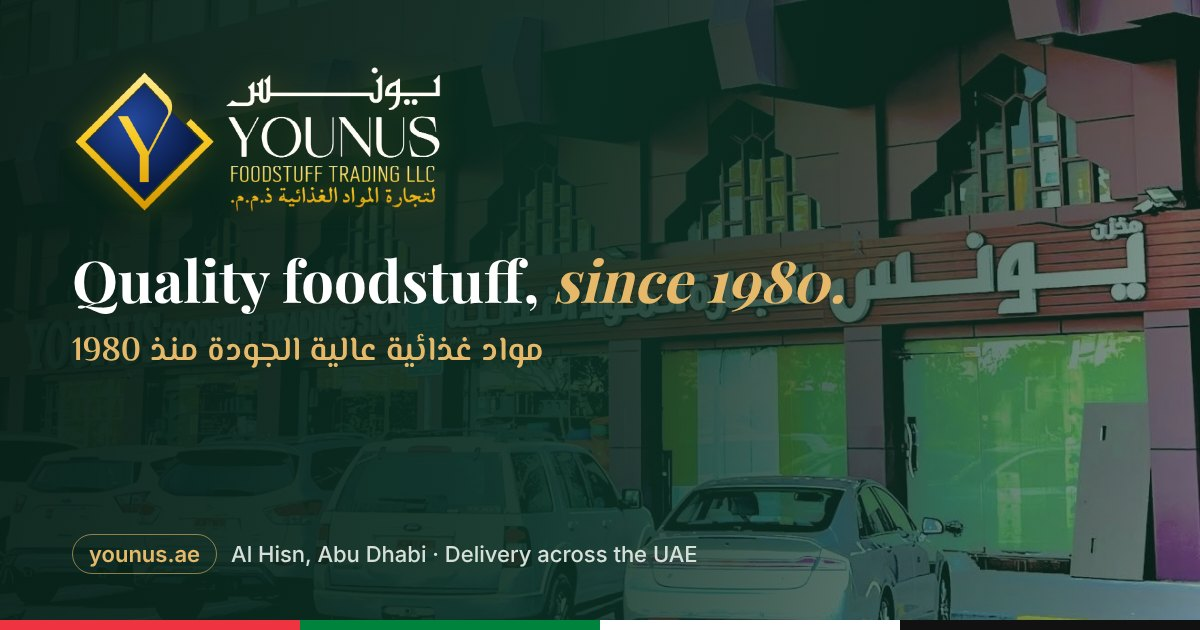
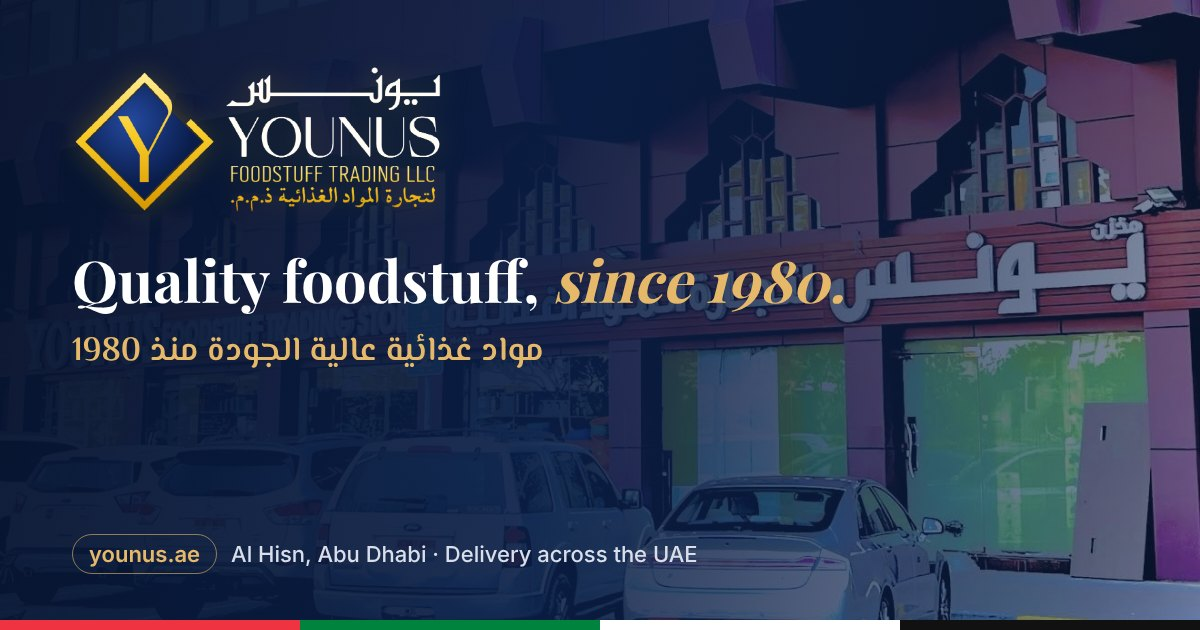
Switch the site theme from green to navy blue
Map every theme green to a matching navy across the home page (header,
top bar, hero and banner tint, About card, buttons, delivery section
and skyline, footer, light text tints, shadows), the admin page, the
policy pages, the meta/manifest theme colour, the Apple touch and
maskable icons, and the share image. Gold accents, WhatsApp green and
the UAE flag colours are unchanged.

Claude-Session: https://claude.ai/code/session_019fR4sLVusZETjKJSMH7WGi

diff --git a/index.html b/index.html
@@ -9,7 +9,7 @@
 <link rel="alternate" hreflang="en" href="https://younus.ae/">
 <link rel="alternate" hreflang="ar" href="https://younus.ae/?lang=ar">
 <link rel="alternate" hreflang="x-default" href="https://younus.ae/">
-<meta name="theme-color" content="#0f3d2e">
+<meta name="theme-color" content="#0d2352">
 <link rel="icon" href="favicon.ico" sizes="any">
 <link rel="icon" type="image/png" sizes="32x32" href="images/favicon-32.png">
 <link rel="apple-touch-icon" href="images/apple-touch-icon.png">
@@ -123,9 +123,9 @@
 <link href="https://fonts.googleapis.com/css2?family=Playfair+Display:wght@500;600;700;800&family=Inter:wght@400;500;600;700&family=Tajawal:wght@400;500;700&family=El+Messiri:wght@500;600;700&display=swap" rel="stylesheet">
 <style>
 :root{
-  --green:#0f3d2e; --green2:#165a43; --gold:#c8963e; --gold2:#e6b96a;
+  --green:#0d2352; --green2:#183a7a; --gold:#c8963e; --gold2:#e6b96a;
   --cream:#faf5ea; --sand:#f1e8d4; --ink:#1d1d1b; --muted:#6b675c; --white:#fff;
-  --r:18px; --shadow:0 10px 30px rgba(15,61,46,.12);
+  --r:18px; --shadow:0 10px 30px rgba(13,35,82,.12);
 }
 *{box-sizing:border-box;margin:0;padding:0}
 html{scroll-behavior:smooth}
@@ -147,7 +147,7 @@ section{padding:84px 0}
 /* top bar + nav */
 .topbar{background:var(--green);color:#e9e2cf;font-size:13px;padding:8px 0}
 .topbar .wrap{display:flex;justify-content:space-between;gap:12px;flex-wrap:wrap}
-header{position:sticky;top:0;z-index:50;background:rgba(8,28,21,.96);backdrop-filter:blur(12px);border-bottom:1px solid rgba(230,185,106,.25)}
+header{position:sticky;top:0;z-index:50;background:rgba(7,18,42,.96);backdrop-filter:blur(12px);border-bottom:1px solid rgba(230,185,106,.25)}
 .logo{height:56px;width:auto;display:block;filter:drop-shadow(0 0 10px rgba(246,196,0,.22)) drop-shadow(0 2px 3px rgba(0,0,0,.35));transition:transform .3s,filter .3s}
 .brand{position:relative;display:flex}
 .brand:hover .logo{transform:scale(1.04);filter:drop-shadow(0 0 14px rgba(246,196,0,.38)) drop-shadow(0 2px 3px rgba(0,0,0,.35))}
@@ -170,21 +170,21 @@ nav a.link:hover:after{width:100%}
 .burger{display:none;background:none;border:0;font-size:26px;cursor:pointer;color:#fff}
 
 /* hero */
-.hero{position:relative;background:radial-gradient(1200px 600px at 80% -10%,#1f6a4f 0%,transparent 60%),linear-gradient(135deg,#0b2f23,#0f3d2e 55%,#13503b);color:#fff;padding:100px 0 110px;overflow:hidden}
-.hero.has-photo{background:linear-gradient(100deg,rgba(8,32,24,.94) 0%,rgba(11,47,35,.86) 45%,rgba(15,61,46,.55) 100%),var(--hero-img) center/cover no-repeat}
-[dir=rtl] .hero.has-photo{background:linear-gradient(260deg,rgba(8,32,24,.94) 0%,rgba(11,47,35,.86) 45%,rgba(15,61,46,.55) 100%),var(--hero-img) center/cover no-repeat}
+.hero{position:relative;background:radial-gradient(1200px 600px at 80% -10%,#2b4c94 0%,transparent 60%),linear-gradient(135deg,#0a1b3f,#0d2352 55%,#15306a);color:#fff;padding:100px 0 110px;overflow:hidden}
+.hero.has-photo{background:linear-gradient(100deg,rgba(7,20,48,.94) 0%,rgba(10,30,70,.86) 45%,rgba(13,35,82,.55) 100%),var(--hero-img) center/cover no-repeat}
+[dir=rtl] .hero.has-photo{background:linear-gradient(260deg,rgba(7,20,48,.94) 0%,rgba(10,30,70,.86) 45%,rgba(13,35,82,.55) 100%),var(--hero-img) center/cover no-repeat}
 .hero:before{content:"";position:absolute;inset:0;background-image:radial-gradient(rgba(230,185,106,.14) 1.2px,transparent 1.2px);background-size:26px 26px;mask-image:linear-gradient(to bottom,#000,transparent 85%)}
 .hero .wrap{position:relative;display:grid;grid-template-columns:1.15fr .85fr;gap:50px;align-items:center}
 .badge{display:inline-flex;gap:8px;align-items:center;border:1px solid rgba(230,185,106,.5);color:var(--gold2);padding:7px 16px;border-radius:999px;font-size:13px;font-weight:500;margin-bottom:22px}
 .hero h1{font-size:clamp(38px,6vw,68px);font-weight:700;margin-bottom:20px}
 .hero h1 em{color:var(--gold2);font-style:italic}
-.hero p{color:#d6e0d9;font-size:18px;max-width:540px;margin-bottom:30px}
+.hero p{color:#d8deea;font-size:18px;max-width:540px;margin-bottom:30px}
 .hero-cta{display:flex;gap:14px;flex-wrap:wrap}
 .hero-card{background:rgba(255,255,255,.07);border:1px solid rgba(230,185,106,.3);border-radius:28px;padding:30px;backdrop-filter:blur(8px)}
 .hero-grid{display:grid;grid-template-columns:repeat(3,1fr);gap:14px}
 .hero-grid div{aspect-ratio:1;border-radius:18px;display:grid;place-items:center;font-size:44px;background:rgba(255,255,255,.08);transition:.3s}
 .hero-grid div:hover{transform:translateY(-5px) rotate(-3deg);background:rgba(230,185,106,.22)}
-.hero-card p{margin:20px 0 0;font-size:14px;color:#cfdcd4}
+.hero-card p{margin:20px 0 0;font-size:14px;color:#cdd5e6}
 
 /* trust strip */
 .strip{background:var(--gold);color:#fff}
@@ -196,7 +196,7 @@ nav a.link:hover:after{width:100%}
 .about{display:grid;grid-template-columns:1fr 1fr;gap:56px;align-items:center}
 .about-art{background:linear-gradient(145deg,var(--green),var(--green2));border-radius:30px;padding:46px;color:#fff;position:relative;overflow:hidden;box-shadow:var(--shadow)}
 .about-art .big{font-family:'Playfair Display';font-size:110px;line-height:1;color:var(--gold2);font-weight:800}
-.about-art p{color:#d6e0d9}
+.about-art p{color:#d8deea}
 .about-art:after{content:"";position:absolute;top:30px;right:40px;width:124px;height:124px;background:url(images/logo-mark.png) center/contain no-repeat;filter:drop-shadow(0 0 18px rgba(246,196,0,.25)) drop-shadow(0 8px 14px rgba(0,0,0,.3));pointer-events:none}
 [dir=rtl] .about-art:after{right:auto;left:40px}
 @media(max-width:520px){.about-art:after{top:18px;right:18px;width:62px;height:62px}[dir=rtl] .about-art:after{left:18px}.about-art .big{font-size:92px}}
@@ -237,7 +237,7 @@ nav a.link:hover:after{width:100%}
 .g .tag{display:inline-block;margin-top:12px;font-size:12px;font-weight:600;color:var(--gold);letter-spacing:.04em}
 
 /* delivery */
-.delivery{background:linear-gradient(135deg,#0b2f23,#0f3d2e);color:#fff}
+.delivery{background:linear-gradient(135deg,#0a1b3f,#0d2352);color:#fff}
 /* delivery scene: UAE landmarks + courier */
 .delivery{padding-bottom:0}
 .delivery-scene{position:relative;height:clamp(170px,22vw,300px);margin-top:46px;overflow:hidden}
@@ -251,11 +251,11 @@ nav a.link:hover:after{width:100%}
 @keyframes bikeRide{from{left:110%}to{left:-25%}}
 @keyframes wheelSpin{to{transform:rotate(360deg)}}
 @media(prefers-reduced-motion:reduce){.delivery-scene .van{animation:none;left:58%}.delivery-scene .bike{animation:none;left:18%}.delivery-scene .wheel{animation:none}}
-.delivery .title{color:#fff}.delivery .lead{color:#c9d8cf}
+.delivery .title{color:#fff}.delivery .lead{color:#c8d1e3}
 .steps{display:grid;grid-template-columns:repeat(4,1fr);gap:20px;margin-top:44px}
 .step{background:rgba(255,255,255,.07);border:1px solid rgba(230,185,106,.25);border-radius:var(--r);padding:26px}
 .step b{font-family:'Playfair Display';font-size:34px;color:var(--gold2);display:block}
-.step h4{font-size:18px;margin:6px 0}.step p{font-size:14px;color:#c9d8cf}
+.step h4{font-size:18px;margin:6px 0}.step p{font-size:14px;color:#c8d1e3}
 .emirates{display:flex;flex-wrap:wrap;gap:10px;justify-content:center;margin-top:34px}
 .emirates span{border:1px solid rgba(230,185,106,.5);color:var(--gold2);padding:8px 18px;border-radius:999px;font-size:14px}
 
@@ -272,7 +272,7 @@ label{font-size:13px;font-weight:600;color:var(--green);display:grid;gap:6px}
 input,select,textarea{font:inherit;padding:13px 15px;border:1.5px solid #e3d9bf;border-radius:12px;background:var(--cream);outline:none;width:100%}
 input:focus,select:focus,textarea:focus{border-color:var(--gold)}
 
-footer{background:#0a261c;color:#b9c9bf;padding:50px 0 24px;font-size:14px}
+footer{background:#081634;color:#b9c3d8;padding:50px 0 24px;font-size:14px}
 footer .row{display:flex;justify-content:space-between;flex-wrap:wrap;gap:24px;padding-bottom:26px;border-bottom:1px solid rgba(255,255,255,.1)}
 footer b{font-family:'Playfair Display';color:#fff;font-size:20px;display:block;margin-bottom:6px}
 footer .cp{padding-top:20px;text-align:center;font-size:13px}
@@ -310,7 +310,7 @@ footer .cp{padding-top:20px;text-align:center;font-size:13px}
 @media(max-width:900px){
   .hero .wrap,.about,.contact{grid-template-columns:1fr}
   .steps{grid-template-columns:1fr 1fr}.strip .wrap{grid-template-columns:1fr 1fr}
-  nav ul{position:absolute;top:80px;left:0;right:0;background:#0b2f23;flex-direction:column;padding:20px;gap:18px;display:none}
+  nav ul{position:absolute;top:80px;left:0;right:0;background:#0a1b3f;flex-direction:column;padding:20px;gap:18px;display:none}
   nav ul.on{display:flex}.burger{display:block}
   section{padding:60px 0}
 }
@@ -446,9 +446,9 @@ footer .cp{padding-top:20px;text-align:center;font-size:13px}
     <div class="step"><b>04</b><h4 data-ar="نوصله إليك">Delivered</h4><p data-ar="استلم طلبك في المنزل أو المكتب أو المطعم.">Receive your order at home, office or restaurant.</p></div>
   </div>
   <div class="emirates"><span data-ar="أبوظبي">Abu Dhabi</span><span data-ar="دبي">Dubai</span><span data-ar="الشارقة">Sharjah</span><span data-ar="عجمان">Ajman</span><span data-ar="أم القيوين">Umm Al Quwain</span><span data-ar="رأس الخيمة">Ras Al Khaimah</span><span data-ar="الفجيرة">Fujairah</span></div>
-  <p style="margin-top:28px;color:#c9d8cf;font-size:14px" data-ar="توصيل مجاني للطلبات فوق &lt;span id=&quot;freeMin&quot;&gt;&lt;/span&gt; درهم · الدفع عند الاستلام متاح">Free delivery on orders above AED <span id="freeMin"></span> · Cash on delivery available</p>
+  <p style="margin-top:28px;color:#c8d1e3;font-size:14px" data-ar="توصيل مجاني للطلبات فوق &lt;span id=&quot;freeMin&quot;&gt;&lt;/span&gt; درهم · الدفع عند الاستلام متاح">Free delivery on orders above AED <span id="freeMin"></span> · Cash on delivery available</p>
 </div>
-<div class="delivery-scene"><svg class="sky" viewBox="0 0 1440 240" preserveAspectRatio="xMidYMax slice" aria-hidden="true"><g fill="#2f4536"><rect x="0" y="141" width="46" height="59" rx="2"/><rect x="48" y="92" width="30" height="108" rx="2"/><rect x="61.5" y="78" width="3" height="14"/><rect x="80" y="133" width="58" height="67" rx="2"/><rect x="107.5" y="119" width="3" height="14"/><rect x="146" y="152" width="52" height="48" rx="2"/><rect x="170.5" y="138" width="3" height="14"/><rect x="208" y="153" width="53" height="47" rx="2"/><rect x="264" y="80" width="40" height="120" rx="2"/><rect x="306" y="154" width="51" height="46" rx="2"/><rect x="359" y="123" width="34" height="77" rx="2"/><rect x="403" y="87" width="33" height="113" rx="2"/><rect x="440" y="86" width="32" height="114" rx="2"/><rect x="477" y="148" width="49" height="52" rx="2"/><rect x="529" y="81" width="29" height="119" rx="2"/><rect x="542.0" y="67" width="3" height="14"/><rect x="568" y="120" width="53" height="80" rx="2"/><rect x="630" y="122" width="49" height="78" rx="2"/><rect x="653.0" y="108" width="3" height="14"/><rect x="683" y="150" width="41" height="50" rx="2"/><rect x="734" y="117" width="57" height="83" rx="2"/><rect x="797" y="145" width="30" height="55" rx="2"/><rect x="831" y="141" width="47" height="59" rx="2"/><rect x="886" y="151" width="28" height="49" rx="2"/><rect x="921" y="116" width="47" height="84" rx="2"/><rect x="977" y="149" width="30" height="51" rx="2"/><rect x="1016" y="153" width="30" height="47" rx="2"/><rect x="1052" y="124" width="54" height="76" rx="2"/><rect x="1113" y="101" width="27" height="99" rx="2"/><rect x="1143" y="153" width="57" height="47" rx="2"/><rect x="1170.0" y="139" width="3" height="14"/><rect x="1206" y="129" width="34" height="71" rx="2"/><rect x="1249" y="139" width="31" height="61" rx="2"/><rect x="1290" y="143" width="43" height="57" rx="2"/><rect x="1343" y="107" width="43" height="93" rx="2"/><rect x="1394" y="141" width="40" height="59" rx="2"/><rect x="1412.5" y="127" width="3" height="14"/><rect x="1438" y="131" width="40" height="69" rx="2"/><rect x="1456.5" y="117" width="3" height="14"/></g><g fill="#857a4a"><g><title>Qasr Al Hosn</title><rect x="78" y="150" width="140" height="50"/><rect x="80" y="143" width="6" height="7"/><rect x="90" y="143" width="6" height="7"/><rect x="100" y="143" width="6" height="7"/><rect x="110" y="143" width="6" height="7"/><rect x="120" y="143" width="6" height="7"/><rect x="130" y="143" width="6" height="7"/><rect x="140" y="143" width="6" height="7"/><rect x="150" y="143" width="6" height="7"/><rect x="160" y="143" width="6" height="7"/><rect x="170" y="143" width="6" height="7"/><rect x="180" y="143" width="6" height="7"/><rect x="190" y="143" width="6" height="7"/><rect x="200" y="143" width="6" height="7"/><rect x="210" y="143" width="6" height="7"/><rect x="64" y="112" width="36" height="88" rx="16"/><rect x="66" y="105" width="5" height="7"/><rect x="74" y="105" width="5" height="7"/><rect x="82" y="105" width="5" height="7"/><rect x="90" y="105" width="5" height="7"/><rect x="184" y="98" width="38" height="102"/><rect x="184" y="90" width="6" height="8"/><rect x="193" y="90" width="6" height="8"/><rect x="202" y="90" width="6" height="8"/><rect x="211" y="90" width="6" height="8"/><rect x="134" y="168" width="22" height="32" rx="11" fill="#0d3527"/></g><g><title>Sheikh Zayed Grand Mosque</title><rect x="282" y="160" width="176" height="40"/><ellipse cx="370" cy="150" rx="44" ry="40"/><rect x="368" y="96" width="4" height="16"/><circle cx="370" cy="96" r="3"/><ellipse cx="318" cy="160" rx="20" ry="18"/><rect x="316.5" y="132" width="3" height="10"/><ellipse cx="422" cy="160" rx="20" ry="18"/><rect x="420.5" y="132" width="3" height="10"/><rect x="268" y="72" width="9" height="128"/><rect x="266" y="96" width="13" height="5"/><rect x="266" y="130" width="13" height="5"/><path d="M268 72 L272.5 56 L277 72 Z"/><rect x="466" y="72" width="9" height="128"/><rect x="464" y="96" width="13" height="5"/><rect x="464" y="130" width="13" height="5"/><path d="M466 72 L470.5 56 L475 72 Z"/></g><g><title>Louvre Abu Dhabi</title><path d="M496 182 Q568 132 640 182 Z"/><rect x="520" y="182" width="96" height="18"/><rect x="566" y="182" width="4" height="18" fill="#0d3527"/></g><g><title>Etihad Towers</title><path d="M662 200 V126 Q673 102 684 118 V200 Z"/><path d="M690 200 V100 Q701 76 712 92 V200 Z"/><path d="M718 200 V114 Q729 90 740 106 V200 Z"/><path d="M744 200 V134 Q755 110 766 126 V200 Z"/></g><g><title>Burj Khalifa</title><polygon points="810,6 812,34 815,58 818,82 823,110 828,136 834,160 840,182 846,200 774,200 780,182 786,160 792,136 797,110 802,82 805,58 808,34"/></g><g><title>Dubai Frame</title><path fill-rule="evenodd" d="M872 86 H948 V200 H872 Z M887 102 H933 V200 H887 Z"/><rect x="872" y="86" width="76" height="10"/></g><g><title>Museum of the Future</title><path fill-rule="evenodd" d="M970 160 a46 44 0 1 0 92 0 a46 44 0 1 0 -92 0 Z M998 156 a20 25 0 1 0 40 0 a20 25 0 1 0 -40 0 Z"/><rect x="984" y="190" width="64" height="10"/></g><g><title>Burj Al Arab</title><path d="M1102 200 V64 Q1186 104 1172 200 Z"/><rect x="1099" y="50" width="4" height="150"/><rect x="1152" y="128" width="26" height="4" rx="2"/></g><g><title>Palm trees</title><path d="M1222 200 Q1226 161.0 1224 122" stroke="#857a4a" stroke-width="5" fill="none"/><path d="M1224 122 Q1211.0 122 1198 140" stroke="#857a4a" stroke-width="4.5" fill="none" stroke-linecap="round"/><path d="M1224 122 Q1214.0 106 1204 124" stroke="#857a4a" stroke-width="4.5" fill="none" stroke-linecap="round"/><path d="M1224 122 Q1224.0 98 1224 116" stroke="#857a4a" stroke-width="4.5" fill="none" stroke-linecap="round"/><path d="M1224 122 Q1234.0 106 1244 124" stroke="#857a4a" stroke-width="4.5" fill="none" stroke-linecap="round"/><path d="M1224 122 Q1237.0 122 1250 140" stroke="#857a4a" stroke-width="4.5" fill="none" stroke-linecap="round"/><path d="M1262 200 Q1266 170.0 1264 140" stroke="#857a4a" stroke-width="5" fill="none"/><path d="M1264 140 Q1251.0 140 1238 158" stroke="#857a4a" stroke-width="4.5" fill="none" stroke-linecap="round"/><path d="M1264 140 Q1254.0 124 1244 142" stroke="#857a4a" stroke-width="4.5" fill="none" stroke-linecap="round"/><path d="M1264 140 Q1264.0 116 1264 134" stroke="#857a4a" stroke-width="4.5" fill="none" stroke-linecap="round"/><path d="M1264 140 Q1274.0 124 1284 142" stroke="#857a4a" stroke-width="4.5" fill="none" stroke-linecap="round"/><path d="M1264 140 Q1277.0 140 1290 158" stroke="#857a4a" stroke-width="4.5" fill="none" stroke-linecap="round"/><path d="M1388 200 Q1392 158.0 1390 116" stroke="#857a4a" stroke-width="5" fill="none"/><path d="M1390 116 Q1377.0 116 1364 134" stroke="#857a4a" stroke-width="4.5" fill="none" stroke-linecap="round"/><path d="M1390 116 Q1380.0 100 1370 118" stroke="#857a4a" stroke-width="4.5" fill="none" stroke-linecap="round"/><path d="M1390 116 Q1390.0 92 1390 110" stroke="#857a4a" stroke-width="4.5" fill="none" stroke-linecap="round"/><path d="M1390 116 Q1400.0 100 1410 118" stroke="#857a4a" stroke-width="4.5" fill="none" stroke-linecap="round"/><path d="M1390 116 Q1403.0 116 1416 134" stroke="#857a4a" stroke-width="4.5" fill="none" stroke-linecap="round"/></g><g><title>Mosque</title><rect x="1296" y="170" width="64" height="30"/><ellipse cx="1328" cy="168" rx="24" ry="22"/><rect x="1370" y="110" width="7" height="90"/><path d="M1370 110 L1373.5 98 L1377 110 Z"/></g></g><rect x="0" y="200" width="1440" height="40" fill="rgba(0,0,0,.28)"/><rect x="0" y="200" width="1440" height="2" fill="rgba(230,185,106,.55)"/><line x1="0" y1="220" x2="1440" y2="220" stroke="rgba(255,255,255,.35)" stroke-width="2" stroke-dasharray="26 18"/></svg><svg class="bike" viewBox="0 0 110 80" aria-label="Delivery motorbike" role="img"><ellipse cx="55" cy="75" rx="46" ry="3.5" fill="rgba(0,0,0,.22)"/><rect x="10" y="22" width="34" height="28" rx="4" fill="#e6b96a"/><rect x="10" y="22" width="34" height="6" rx="3" fill="#c8963e"/><path d="M12 36 h30" stroke="#0b1f4b" stroke-width="2"/><path d="M30 58 L48 52 H72 L82 40 L90 42 L84 58 Z" fill="#0b1f4b"/><path d="M80 40 L86 26" stroke="#333" stroke-width="3" stroke-linecap="round"/><path d="M82 26 h9" stroke="#333" stroke-width="3" stroke-linecap="round"/><path d="M52 52 L58 32 L66 30 L70 44 Z" fill="#fffdf6"/><circle cx="62" cy="22" r="8" fill="#e6b96a"/><path d="M55 21 a7 7 0 0 1 14 0" fill="#0f3d2e"/><path d="M66 32 L80 36" stroke="#fffdf6" stroke-width="4" stroke-linecap="round"/><g class="wheel"><circle cx="28" cy="64" r="10" fill="#1b1b1b"/><circle cx="28" cy="64" r="5.0" fill="#c9c9c9"/><rect x="27" y="59.0" width="2" height="10.0" fill="#777"/><rect x="23.0" y="63" width="10.0" height="2" fill="#777"/></g><g class="wheel"><circle cx="86" cy="64" r="10" fill="#1b1b1b"/><circle cx="86" cy="64" r="5.0" fill="#c9c9c9"/><rect x="85" y="59.0" width="2" height="10.0" fill="#777"/><rect x="81.0" y="63" width="10.0" height="2" fill="#777"/></g></svg><svg class="van" viewBox="0 0 170 80" aria-label="Younus delivery van" role="img"><ellipse cx="86" cy="74" rx="78" ry="4" fill="rgba(0,0,0,.25)"/><rect x="4" y="6" width="112" height="54" rx="6" fill="#fffdf6"/><rect x="4" y="40" width="112" height="7" fill="#e6b96a"/><rect x="4" y="47" width="112" height="3" fill="#0b1f4b"/><path d="M116 18 H140 Q150 18 155 30 L163 44 Q166 48 166 54 V60 H116 Z" fill="#fffdf6"/><path d="M121 23 H139 Q145 23 148 30 L153 40 H121 Z" fill="#9fd3e8"/><rect x="116" y="40" width="50" height="7" fill="#e6b96a"/><rect x="116" y="47" width="50" height="3" fill="#0b1f4b"/><rect x="158" y="48" width="8" height="5" rx="2" fill="#ffd54a"/><rect x="2" y="46" width="4" height="7" rx="1" fill="#e2483d"/><g transform="translate(16 14)"><path d="M11 0 L22 11 L11 22 L0 11 Z" fill="#0b1f4b" stroke="#f6c400" stroke-width="2.4"/><path d="M7 6 L11 12 L15 6 M11 12 V17" stroke="#f6c400" stroke-width="2.2" fill="none"/></g><text x="77" y="28" text-anchor="middle" textLength="64" lengthAdjust="spacingAndGlyphs" font-family="Playfair Display,Georgia,serif" font-weight="700" font-size="15" fill="#0f3d2e">YOUNUS</text><text x="77" y="37" text-anchor="middle" textLength="64" lengthAdjust="spacingAndGlyphs" font-family="Inter,sans-serif" font-weight="600" font-size="6.5" fill="#6b675c">FOODSTUFF TRADING</text><g class="wheel"><circle cx="34" cy="62" r="11" fill="#1b1b1b"/><circle cx="34" cy="62" r="5.5" fill="#c9c9c9"/><rect x="33" y="56.5" width="2" height="11.0" fill="#777"/><rect x="28.5" y="61" width="11.0" height="2" fill="#777"/></g><g class="wheel"><circle cx="138" cy="62" r="11" fill="#1b1b1b"/><circle cx="138" cy="62" r="5.5" fill="#c9c9c9"/><rect x="137" y="56.5" width="2" height="11.0" fill="#777"/><rect x="132.5" y="61" width="11.0" height="2" fill="#777"/></g></svg></div>
+<div class="delivery-scene"><svg class="sky" viewBox="0 0 1440 240" preserveAspectRatio="xMidYMax slice" aria-hidden="true"><g fill="#27355a"><rect x="0" y="141" width="46" height="59" rx="2"/><rect x="48" y="92" width="30" height="108" rx="2"/><rect x="61.5" y="78" width="3" height="14"/><rect x="80" y="133" width="58" height="67" rx="2"/><rect x="107.5" y="119" width="3" height="14"/><rect x="146" y="152" width="52" height="48" rx="2"/><rect x="170.5" y="138" width="3" height="14"/><rect x="208" y="153" width="53" height="47" rx="2"/><rect x="264" y="80" width="40" height="120" rx="2"/><rect x="306" y="154" width="51" height="46" rx="2"/><rect x="359" y="123" width="34" height="77" rx="2"/><rect x="403" y="87" width="33" height="113" rx="2"/><rect x="440" y="86" width="32" height="114" rx="2"/><rect x="477" y="148" width="49" height="52" rx="2"/><rect x="529" y="81" width="29" height="119" rx="2"/><rect x="542.0" y="67" width="3" height="14"/><rect x="568" y="120" width="53" height="80" rx="2"/><rect x="630" y="122" width="49" height="78" rx="2"/><rect x="653.0" y="108" width="3" height="14"/><rect x="683" y="150" width="41" height="50" rx="2"/><rect x="734" y="117" width="57" height="83" rx="2"/><rect x="797" y="145" width="30" height="55" rx="2"/><rect x="831" y="141" width="47" height="59" rx="2"/><rect x="886" y="151" width="28" height="49" rx="2"/><rect x="921" y="116" width="47" height="84" rx="2"/><rect x="977" y="149" width="30" height="51" rx="2"/><rect x="1016" y="153" width="30" height="47" rx="2"/><rect x="1052" y="124" width="54" height="76" rx="2"/><rect x="1113" y="101" width="27" height="99" rx="2"/><rect x="1143" y="153" width="57" height="47" rx="2"/><rect x="1170.0" y="139" width="3" height="14"/><rect x="1206" y="129" width="34" height="71" rx="2"/><rect x="1249" y="139" width="31" height="61" rx="2"/><rect x="1290" y="143" width="43" height="57" rx="2"/><rect x="1343" y="107" width="43" height="93" rx="2"/><rect x="1394" y="141" width="40" height="59" rx="2"/><rect x="1412.5" y="127" width="3" height="14"/><rect x="1438" y="131" width="40" height="69" rx="2"/><rect x="1456.5" y="117" width="3" height="14"/></g><g fill="#8a7a52"><g><title>Qasr Al Hosn</title><rect x="78" y="150" width="140" height="50"/><rect x="80" y="143" width="6" height="7"/><rect x="90" y="143" width="6" height="7"/><rect x="100" y="143" width="6" height="7"/><rect x="110" y="143" width="6" height="7"/><rect x="120" y="143" width="6" height="7"/><rect x="130" y="143" width="6" height="7"/><rect x="140" y="143" width="6" height="7"/><rect x="150" y="143" width="6" height="7"/><rect x="160" y="143" width="6" height="7"/><rect x="170" y="143" width="6" height="7"/><rect x="180" y="143" width="6" height="7"/><rect x="190" y="143" width="6" height="7"/><rect x="200" y="143" width="6" height="7"/><rect x="210" y="143" width="6" height="7"/><rect x="64" y="112" width="36" height="88" rx="16"/><rect x="66" y="105" width="5" height="7"/><rect x="74" y="105" width="5" height="7"/><rect x="82" y="105" width="5" height="7"/><rect x="90" y="105" width="5" height="7"/><rect x="184" y="98" width="38" height="102"/><rect x="184" y="90" width="6" height="8"/><rect x="193" y="90" width="6" height="8"/><rect x="202" y="90" width="6" height="8"/><rect x="211" y="90" width="6" height="8"/><rect x="134" y="168" width="22" height="32" rx="11" fill="#0b1d44"/></g><g><title>Sheikh Zayed Grand Mosque</title><rect x="282" y="160" width="176" height="40"/><ellipse cx="370" cy="150" rx="44" ry="40"/><rect x="368" y="96" width="4" height="16"/><circle cx="370" cy="96" r="3"/><ellipse cx="318" cy="160" rx="20" ry="18"/><rect x="316.5" y="132" width="3" height="10"/><ellipse cx="422" cy="160" rx="20" ry="18"/><rect x="420.5" y="132" width="3" height="10"/><rect x="268" y="72" width="9" height="128"/><rect x="266" y="96" width="13" height="5"/><rect x="266" y="130" width="13" height="5"/><path d="M268 72 L272.5 56 L277 72 Z"/><rect x="466" y="72" width="9" height="128"/><rect x="464" y="96" width="13" height="5"/><rect x="464" y="130" width="13" height="5"/><path d="M466 72 L470.5 56 L475 72 Z"/></g><g><title>Louvre Abu Dhabi</title><path d="M496 182 Q568 132 640 182 Z"/><rect x="520" y="182" width="96" height="18"/><rect x="566" y="182" width="4" height="18" fill="#0b1d44"/></g><g><title>Etihad Towers</title><path d="M662 200 V126 Q673 102 684 118 V200 Z"/><path d="M690 200 V100 Q701 76 712 92 V200 Z"/><path d="M718 200 V114 Q729 90 740 106 V200 Z"/><path d="M744 200 V134 Q755 110 766 126 V200 Z"/></g><g><title>Burj Khalifa</title><polygon points="810,6 812,34 815,58 818,82 823,110 828,136 834,160 840,182 846,200 774,200 780,182 786,160 792,136 797,110 802,82 805,58 808,34"/></g><g><title>Dubai Frame</title><path fill-rule="evenodd" d="M872 86 H948 V200 H872 Z M887 102 H933 V200 H887 Z"/><rect x="872" y="86" width="76" height="10"/></g><g><title>Museum of the Future</title><path fill-rule="evenodd" d="M970 160 a46 44 0 1 0 92 0 a46 44 0 1 0 -92 0 Z M998 156 a20 25 0 1 0 40 0 a20 25 0 1 0 -40 0 Z"/><rect x="984" y="190" width="64" height="10"/></g><g><title>Burj Al Arab</title><path d="M1102 200 V64 Q1186 104 1172 200 Z"/><rect x="1099" y="50" width="4" height="150"/><rect x="1152" y="128" width="26" height="4" rx="2"/></g><g><title>Palm trees</title><path d="M1222 200 Q1226 161.0 1224 122" stroke="#8a7a52" stroke-width="5" fill="none"/><path d="M1224 122 Q1211.0 122 1198 140" stroke="#8a7a52" stroke-width="4.5" fill="none" stroke-linecap="round"/><path d="M1224 122 Q1214.0 106 1204 124" stroke="#8a7a52" stroke-width="4.5" fill="none" stroke-linecap="round"/><path d="M1224 122 Q1224.0 98 1224 116" stroke="#8a7a52" stroke-width="4.5" fill="none" stroke-linecap="round"/><path d="M1224 122 Q1234.0 106 1244 124" stroke="#8a7a52" stroke-width="4.5" fill="none" stroke-linecap="round"/><path d="M1224 122 Q1237.0 122 1250 140" stroke="#8a7a52" stroke-width="4.5" fill="none" stroke-linecap="round"/><path d="M1262 200 Q1266 170.0 1264 140" stroke="#8a7a52" stroke-width="5" fill="none"/><path d="M1264 140 Q1251.0 140 1238 158" stroke="#8a7a52" stroke-width="4.5" fill="none" stroke-linecap="round"/><path d="M1264 140 Q1254.0 124 1244 142" stroke="#8a7a52" stroke-width="4.5" fill="none" stroke-linecap="round"/><path d="M1264 140 Q1264.0 116 1264 134" stroke="#8a7a52" stroke-width="4.5" fill="none" stroke-linecap="round"/><path d="M1264 140 Q1274.0 124 1284 142" stroke="#8a7a52" stroke-width="4.5" fill="none" stroke-linecap="round"/><path d="M1264 140 Q1277.0 140 1290 158" stroke="#8a7a52" stroke-width="4.5" fill="none" stroke-linecap="round"/><path d="M1388 200 Q1392 158.0 1390 116" stroke="#8a7a52" stroke-width="5" fill="none"/><path d="M1390 116 Q1377.0 116 1364 134" stroke="#8a7a52" stroke-width="4.5" fill="none" stroke-linecap="round"/><path d="M1390 116 Q1380.0 100 1370 118" stroke="#8a7a52" stroke-width="4.5" fill="none" stroke-linecap="round"/><path d="M1390 116 Q1390.0 92 1390 110" stroke="#8a7a52" stroke-width="4.5" fill="none" stroke-linecap="round"/><path d="M1390 116 Q1400.0 100 1410 118" stroke="#8a7a52" stroke-width="4.5" fill="none" stroke-linecap="round"/><path d="M1390 116 Q1403.0 116 1416 134" stroke="#8a7a52" stroke-width="4.5" fill="none" stroke-linecap="round"/></g><g><title>Mosque</title><rect x="1296" y="170" width="64" height="30"/><ellipse cx="1328" cy="168" rx="24" ry="22"/><rect x="1370" y="110" width="7" height="90"/><path d="M1370 110 L1373.5 98 L1377 110 Z"/></g></g><rect x="0" y="200" width="1440" height="40" fill="rgba(0,0,0,.28)"/><rect x="0" y="200" width="1440" height="2" fill="rgba(230,185,106,.55)"/><line x1="0" y1="220" x2="1440" y2="220" stroke="rgba(255,255,255,.35)" stroke-width="2" stroke-dasharray="26 18"/></svg><svg class="bike" viewBox="0 0 110 80" aria-label="Delivery motorbike" role="img"><ellipse cx="55" cy="75" rx="46" ry="3.5" fill="rgba(0,0,0,.22)"/><rect x="10" y="22" width="34" height="28" rx="4" fill="#e6b96a"/><rect x="10" y="22" width="34" height="6" rx="3" fill="#c8963e"/><path d="M12 36 h30" stroke="#0b1f4b" stroke-width="2"/><path d="M30 58 L48 52 H72 L82 40 L90 42 L84 58 Z" fill="#0b1f4b"/><path d="M80 40 L86 26" stroke="#333" stroke-width="3" stroke-linecap="round"/><path d="M82 26 h9" stroke="#333" stroke-width="3" stroke-linecap="round"/><path d="M52 52 L58 32 L66 30 L70 44 Z" fill="#fffdf6"/><circle cx="62" cy="22" r="8" fill="#e6b96a"/><path d="M55 21 a7 7 0 0 1 14 0" fill="#0d2352"/><path d="M66 32 L80 36" stroke="#fffdf6" stroke-width="4" stroke-linecap="round"/><g class="wheel"><circle cx="28" cy="64" r="10" fill="#1b1b1b"/><circle cx="28" cy="64" r="5.0" fill="#c9c9c9"/><rect x="27" y="59.0" width="2" height="10.0" fill="#777"/><rect x="23.0" y="63" width="10.0" height="2" fill="#777"/></g><g class="wheel"><circle cx="86" cy="64" r="10" fill="#1b1b1b"/><circle cx="86" cy="64" r="5.0" fill="#c9c9c9"/><rect x="85" y="59.0" width="2" height="10.0" fill="#777"/><rect x="81.0" y="63" width="10.0" height="2" fill="#777"/></g></svg><svg class="van" viewBox="0 0 170 80" aria-label="Younus delivery van" role="img"><ellipse cx="86" cy="74" rx="78" ry="4" fill="rgba(0,0,0,.25)"/><rect x="4" y="6" width="112" height="54" rx="6" fill="#fffdf6"/><rect x="4" y="40" width="112" height="7" fill="#e6b96a"/><rect x="4" y="47" width="112" height="3" fill="#0b1f4b"/><path d="M116 18 H140 Q150 18 155 30 L163 44 Q166 48 166 54 V60 H116 Z" fill="#fffdf6"/><path d="M121 23 H139 Q145 23 148 30 L153 40 H121 Z" fill="#9fd3e8"/><rect x="116" y="40" width="50" height="7" fill="#e6b96a"/><rect x="116" y="47" width="50" height="3" fill="#0b1f4b"/><rect x="158" y="48" width="8" height="5" rx="2" fill="#ffd54a"/><rect x="2" y="46" width="4" height="7" rx="1" fill="#e2483d"/><g transform="translate(16 14)"><path d="M11 0 L22 11 L11 22 L0 11 Z" fill="#0b1f4b" stroke="#f6c400" stroke-width="2.4"/><path d="M7 6 L11 12 L15 6 M11 12 V17" stroke="#f6c400" stroke-width="2.2" fill="none"/></g><text x="77" y="28" text-anchor="middle" textLength="64" lengthAdjust="spacingAndGlyphs" font-family="Playfair Display,Georgia,serif" font-weight="700" font-size="15" fill="#0d2352">YOUNUS</text><text x="77" y="37" text-anchor="middle" textLength="64" lengthAdjust="spacingAndGlyphs" font-family="Inter,sans-serif" font-weight="600" font-size="6.5" fill="#6b675c">FOODSTUFF TRADING</text><g class="wheel"><circle cx="34" cy="62" r="11" fill="#1b1b1b"/><circle cx="34" cy="62" r="5.5" fill="#c9c9c9"/><rect x="33" y="56.5" width="2" height="11.0" fill="#777"/><rect x="28.5" y="61" width="11.0" height="2" fill="#777"/></g><g class="wheel"><circle cx="138" cy="62" r="11" fill="#1b1b1b"/><circle cx="138" cy="62" r="5.5" fill="#c9c9c9"/><rect x="137" y="56.5" width="2" height="11.0" fill="#777"/><rect x="132.5" y="61" width="11.0" height="2" fill="#777"/></g></svg></div>
 </section>
 
 <section id="contact"><div class="wrap">

diff --git a/admin/index.html b/admin/index.html
@@ -12,7 +12,7 @@
 <link href="https://fonts.googleapis.com/css2?family=Inter:wght@400;500;600;700&family=Tajawal:wght@400;500;700&display=swap" rel="stylesheet">
 <style>
 :root{
-  --green:#0f3d2e; --green2:#165a43; --gold:#c8963e; --gold2:#e6b96a;
+  --green:#0d2352; --green2:#183a7a; --gold:#c8963e; --gold2:#e6b96a;
   --cream:#faf5ea; --sand:#f1e8d4; --ink:#1d1d1b; --muted:#6b675c; --line:#e5dabf;
   --red:#a33a2a; --white:#fff; --r:14px;
 }
@@ -91,9 +91,9 @@ dialog::backdrop{background:rgba(0,0,0,.45)}
 .dlg-foot{display:flex;justify-content:flex-end;gap:10px;padding:14px 22px;border-top:1px solid var(--line);position:sticky;bottom:0;background:#fff}
 .x{background:none;border:0;font-size:26px;cursor:pointer;color:var(--green);line-height:1}
 .photo{display:flex;gap:14px;align-items:center}
-.hero-prev{position:relative;aspect-ratio:16/7;border-radius:14px;overflow:hidden;background:linear-gradient(135deg,#0b2f23,#0f3d2e 55%,#13503b);display:grid;place-items:center;color:#c9d8cf;font-size:14px}
+.hero-prev{position:relative;aspect-ratio:16/7;border-radius:14px;overflow:hidden;background:linear-gradient(135deg,#0a1b3f,#0d2352 55%,#15306a);display:grid;place-items:center;color:#c8d1e3;font-size:14px}
 .hero-prev img{position:absolute;inset:0;width:100%;height:100%;object-fit:cover}
-.hero-prev.on:after{content:"";position:absolute;inset:0;background:linear-gradient(100deg,rgba(8,32,24,.94) 0%,rgba(11,47,35,.86) 45%,rgba(15,61,46,.55) 100%)}
+.hero-prev.on:after{content:"";position:absolute;inset:0;background:linear-gradient(100deg,rgba(7,20,48,.94) 0%,rgba(10,30,70,.86) 45%,rgba(13,35,82,.55) 100%)}
 .hero-prev b{position:relative;z-index:1;color:#fff;font-size:20px;justify-self:start;padding-left:20px}
 .photo .thumb{width:84px;height:84px;font-size:40px;flex:none}
 

diff --git a/return-policy/index.html b/return-policy/index.html
@@ -6,7 +6,7 @@
 <title>Return & Refund Policy — Younus Foodstuff Trading LLC</title>
 <meta name="description" content="Return & Refund Policy of Younus Foodstuff Trading LLC, Al Hisn, Abu Dhabi.">
 <link rel="canonical" href="https://younus.ae/return-policy/">
-<meta name="theme-color" content="#0f3d2e">
+<meta name="theme-color" content="#0d2352">
 <link rel="icon" href="../favicon.ico" sizes="any">
 <link rel="icon" type="image/png" sizes="32x32" href="../images/favicon-32.png">
 <link rel="apple-touch-icon" href="../images/apple-touch-icon.png">
@@ -20,11 +20,11 @@
 <link rel="preconnect" href="https://fonts.gstatic.com" crossorigin>
 <link href="https://fonts.googleapis.com/css2?family=Playfair+Display:wght@600;700&family=Inter:wght@400;500;600&family=Tajawal:wght@400;500;700&family=El+Messiri:wght@600;700&display=swap" rel="stylesheet">
 <style>
-:root{--green:#0f3d2e;--gold:#c8963e;--gold2:#e6b96a;--cream:#faf5ea;--ink:#1d1d1b;--muted:#6b675c;--line:#eadfc6}
+:root{--green:#0d2352;--gold:#c8963e;--gold2:#e6b96a;--cream:#faf5ea;--ink:#1d1d1b;--muted:#6b675c;--line:#eadfc6}
 *{box-sizing:border-box;margin:0;padding:0}
 body{font-family:'Inter',system-ui,sans-serif;background:var(--cream);color:var(--ink);line-height:1.7;-webkit-font-smoothing:antialiased}
 a{color:var(--green)}
-header{background:rgba(8,28,21,.97);border-bottom:1px solid rgba(230,185,106,.25);position:sticky;top:0;z-index:5}
+header{background:rgba(7,18,42,.97);border-bottom:1px solid rgba(230,185,106,.25);position:sticky;top:0;z-index:5}
 .bar{max-width:900px;margin:0 auto;padding:0 18px;height:72px;display:flex;align-items:center;justify-content:space-between;gap:12px}
 .bar img{height:50px;display:block}
 .bar nav{display:flex;gap:10px;align-items:center}

diff --git a/privacy-policy/index.html b/privacy-policy/index.html
@@ -6,7 +6,7 @@
 <title>Privacy Policy — Younus Foodstuff Trading LLC</title>
 <meta name="description" content="Privacy Policy of Younus Foodstuff Trading LLC, Al Hisn, Abu Dhabi.">
 <link rel="canonical" href="https://younus.ae/privacy-policy/">
-<meta name="theme-color" content="#0f3d2e">
+<meta name="theme-color" content="#0d2352">
 <link rel="icon" href="../favicon.ico" sizes="any">
 <link rel="icon" type="image/png" sizes="32x32" href="../images/favicon-32.png">
 <link rel="apple-touch-icon" href="../images/apple-touch-icon.png">
@@ -20,11 +20,11 @@
 <link rel="preconnect" href="https://fonts.gstatic.com" crossorigin>
 <link href="https://fonts.googleapis.com/css2?family=Playfair+Display:wght@600;700&family=Inter:wght@400;500;600&family=Tajawal:wght@400;500;700&family=El+Messiri:wght@600;700&display=swap" rel="stylesheet">
 <style>
-:root{--green:#0f3d2e;--gold:#c8963e;--gold2:#e6b96a;--cream:#faf5ea;--ink:#1d1d1b;--muted:#6b675c;--line:#eadfc6}
+:root{--green:#0d2352;--gold:#c8963e;--gold2:#e6b96a;--cream:#faf5ea;--ink:#1d1d1b;--muted:#6b675c;--line:#eadfc6}
 *{box-sizing:border-box;margin:0;padding:0}
 body{font-family:'Inter',system-ui,sans-serif;background:var(--cream);color:var(--ink);line-height:1.7;-webkit-font-smoothing:antialiased}
 a{color:var(--green)}
-header{background:rgba(8,28,21,.97);border-bottom:1px solid rgba(230,185,106,.25);position:sticky;top:0;z-index:5}
+header{background:rgba(7,18,42,.97);border-bottom:1px solid rgba(230,185,106,.25);position:sticky;top:0;z-index:5}
 .bar{max-width:900px;margin:0 auto;padding:0 18px;height:72px;display:flex;align-items:center;justify-content:space-between;gap:12px}
 .bar img{height:50px;display:block}
 .bar nav{display:flex;gap:10px;align-items:center}

diff --git a/terms/index.html b/terms/index.html
@@ -6,7 +6,7 @@
 <title>Terms & Conditions — Younus Foodstuff Trading LLC</title>
 <meta name="description" content="Terms & Conditions of Younus Foodstuff Trading LLC, Al Hisn, Abu Dhabi.">
 <link rel="canonical" href="https://younus.ae/terms/">
-<meta name="theme-color" content="#0f3d2e">
+<meta name="theme-color" content="#0d2352">
 <link rel="icon" href="../favicon.ico" sizes="any">
 <link rel="icon" type="image/png" sizes="32x32" href="../images/favicon-32.png">
 <link rel="apple-touch-icon" href="../images/apple-touch-icon.png">
@@ -20,11 +20,11 @@
 <link rel="preconnect" href="https://fonts.gstatic.com" crossorigin>
 <link href="https://fonts.googleapis.com/css2?family=Playfair+Display:wght@600;700&family=Inter:wght@400;500;600&family=Tajawal:wght@400;500;700&family=El+Messiri:wght@600;700&display=swap" rel="stylesheet">
 <style>
-:root{--green:#0f3d2e;--gold:#c8963e;--gold2:#e6b96a;--cream:#faf5ea;--ink:#1d1d1b;--muted:#6b675c;--line:#eadfc6}
+:root{--green:#0d2352;--gold:#c8963e;--gold2:#e6b96a;--cream:#faf5ea;--ink:#1d1d1b;--muted:#6b675c;--line:#eadfc6}
 *{box-sizing:border-box;margin:0;padding:0}
 body{font-family:'Inter',system-ui,sans-serif;background:var(--cream);color:var(--ink);line-height:1.7;-webkit-font-smoothing:antialiased}
 a{color:var(--green)}
-header{background:rgba(8,28,21,.97);border-bottom:1px solid rgba(230,185,106,.25);position:sticky;top:0;z-index:5}
+header{background:rgba(7,18,42,.97);border-bottom:1px solid rgba(230,185,106,.25);position:sticky;top:0;z-index:5}
 .bar{max-width:900px;margin:0 auto;padding:0 18px;height:72px;display:flex;align-items:center;justify-content:space-between;gap:12px}
 .bar img{height:50px;display:block}
 .bar nav{display:flex;gap:10px;align-items:center}
